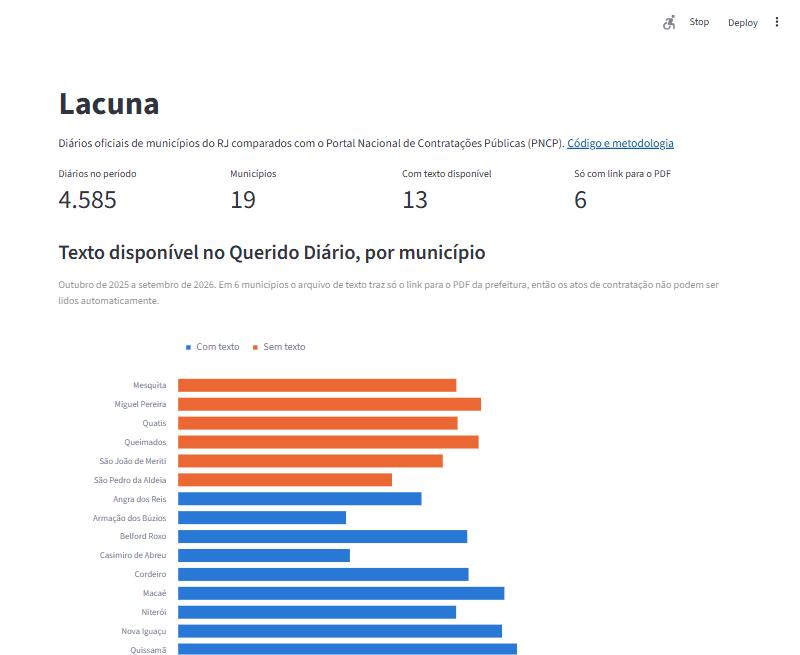
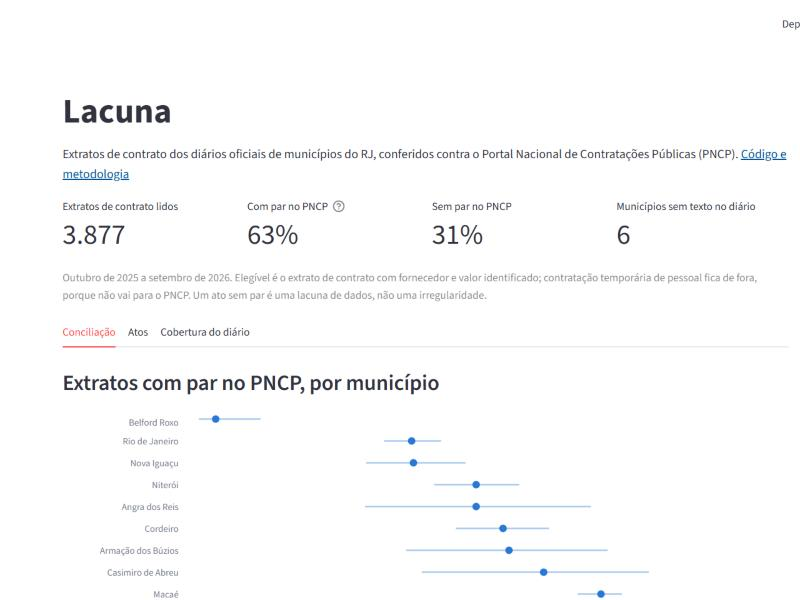
README: resultado final, como funciona e o que deu errado

diff --git a/README.md b/README.md
@@ -3,28 +3,74 @@
 [![ci](https://github.com/juan-barross/lacuna/actions/workflows/ci.yml/badge.svg)](https://github.com/juan-barross/lacuna/actions/workflows/ci.yml)
 [![Abrir o painel](https://static.streamlit.io/badges/streamlit_badge_black_white.svg)](https://lacuna.streamlit.app)
 
-Prefeituras publicam seus contratos no diário oficial e deveriam registrá-los também no [Portal Nacional de Contratações Públicas (PNCP)](https://pncp.gov.br/). O Lacuna lê os diários de municípios do RJ pelo [Querido Diário](https://queridodiario.ok.org.br/), extrai os atos de contratação e confere quais deles aparecem no PNCP.
+**Um em cada três extratos de contrato publicados nos diários oficiais de 13 municípios do RJ não tem registro correspondente no Portal Nacional de Contratações Públicas (PNCP).**
 
-Um ato sem par no PNCP é tratado como **lacuna de dados**, não como irregularidade.
+O Lacuna lê os diários pelo [Querido Diário](https://queridodiario.ok.org.br/), separa os extratos de contrato, extrai empresa, CNPJ, valor e data, e procura cada um entre os contratos que as prefeituras registraram no [PNCP](https://pncp.gov.br/). Um extrato sem par é tratado como **lacuna de dados**, não como irregularidade.
 
 **[Ver o painel](https://lacuna.streamlit.app)**
 
 [![Painel do Lacuna](docs/painel.jpg)](https://lacuna.streamlit.app)
 
-## O que já deu para medir
+## Resultado
 
-Foram 4.585 diários de 19 municípios, de outubro de 2025 a setembro de 2026. Em 6 desses municípios o Querido Diário não tem o texto de nenhum diário do período, só o link para o PDF no site da prefeitura. Nos outros 13, entre 98% e 100% dos diários têm texto.
+Outubro de 2025 a setembro de 2026. 3.877 extratos de contrato lidos, 2.649 elegíveis (contrato com fornecedor e valor identificado) e 8.373 contratos municipais baixados do PNCP.
 
-Antes mesmo de chegar ao PNCP já existe uma lacuna: em um terço dos municípios cobertos, os atos publicados não podem ser lidos por máquina. Detalhes na [ADR 0001](docs/adr/0001-recorte-estado-periodo.md).
+| | Extratos | % |
+|---|---:|---:|
+| Com par no PNCP | 1.676 | 63% |
+| Provável (valor e data batem, nome não confirma) | 141 | 5% |
+| **Sem par no PNCP** | **832** | **31%** |
 
-## Andamento
+Por município, com intervalo de confiança de 95% (Wilson):
 
-- [x] Recorte e ingestão do Querido Diário, com cache e status do texto de cada diário
-- [x] Painel com a cobertura por município
-- [ ] Cliente do PNCP e guia de anotação
-- [ ] Conjunto ouro rotulado à mão e baseline com regex
-- [ ] Extração com LLM, com F1 por campo, custo e latência
-- [ ] Conciliação com o PNCP e taxa por município com intervalo de confiança
+| Município | Elegíveis | Com par | IC 95% |
+|---|---:|---:|---|
+| Quissamã | 122 | 89% | 83% a 94% |
+| São José do Vale do Rio Preto | 446 | 85% | 82% a 88% |
+| Saquarema | 473 | 78% | 74% a 81% |
+| Macaé | 600 | 69% | 65% a 72% |
+| Casimiro de Abreu | 22 | 59% | 39% a 77% |
+| Armação dos Búzios | 30 | 53% | 36% a 70% |
+| Cordeiro | 153 | 52% | 44% a 60% |
+| Angra dos Reis | 23 | 48% | 29% a 67% |
+| Niterói | 186 | 48% | 41% a 55% |
+| Rio de Janeiro | 397 | 37% | 32% a 42% |
+| Nova Iguaçu | 126 | 37% | 29% a 46% |
+| Belford Roxo | 71 | 4% | 1% a 12% |
+
+Belford Roxo publicou 71 extratos elegíveis no diário e registrou só 52 contratos no PNCP no mesmo período.
+
+Outros 6 municípios (Mesquita, Miguel Pereira, Quatis, Queimados, São João de Meriti e São Pedro da Aldeia) não entram na taxa: o Querido Diário não tem o texto de nenhum diário deles, só o link para o PDF no site da prefeitura. É uma lacuna antes mesmo de chegar ao PNCP.
+
+## Como funciona
+
+```text
+Querido Diário ──> diários (texto) ──> extratos de contrato ──> campos (regex ou LLM) ──┐
+                                                                                        ├──> conciliação ──> painel
+PNCP ──> órgãos municipais de cada cidade ──> contratos de cada órgão ──────────────────┘
+```
+
+1. **Ingestão** (`qd.py`, `pncp.py`): download com cache em disco, retentativa e espera quando a API limita o ritmo.
+2. **Segmentação** (`segment.py`): cada extrato começa em "EXTRATO DO/DE CONTRATO" e vai até o próximo "EXTRATO".
+3. **Extração** (`regex_baseline.py`, `llm.py`): regex como baseline; Claude Haiku 5.5 com saída estruturada no mesmo esquema (`schema.py`), com cache, custo por documento e latência.
+4. **Conciliação** (`match.py`): mesmo município, valor a 1% e data a 60 dias; o nome da contratada (ou o CNPJ) decide entre casado e provável. Regras e motivos na [ADR 0005](docs/adr/0005-regras-de-conciliacao.md).
+5. **Avaliação** (`evaluation.py`): F1 por campo contra um conjunto ouro rotulado à mão e precisão do casamento numa amostra conferida à mão.
+
+## O que deu errado no caminho
+
+Cada item virou um teste.
+
+- **A taxa depende da extração.** Erros no corte do nome da contratada derrubavam o casamento: em Cordeiro o nome engolia "CONTRATO N.º 233/2025" da linha seguinte (taxa de 8% para 52% depois da correção); em Quissamã as partes vêm em "Celebrado entre o Município e a empresa X" (6% para 89%); em Macaé o nome vinha grudado em "Macaé, 07 de Outubro de 2025" (56% para 69%).
+- **Valores redondos casavam por coincidência.** R$ 24.000,00 batia com contratos de outras empresas. Com os dois nomes presentes e diferentes, o par agora é descartado.
+- **O CNPJ errado era o do carimbo.** O D.O.Rio repete no meio do texto a assinatura digital da gráfica municipal, com CNPJ. A segmentação tira esse cabeçalho de página.
+- **APIs com armadilhas.** O Querido Diário satura o total em 10.000 resultados e devolve links `s3://` internos desde dez/2025. O PNCP não filtra contratos por município, recusa períodos acima de 365 dias, devolve 204 sem corpo quando não há resultado e bloqueia por ~27 s depois de 30 a 60 pedidos.
+- **Pouca memória.** A máquina tem 4 GB. O Elasticsearch previsto saiu ([ADR 0004](docs/adr/0004-duckdb-no-lugar-do-elasticsearch.md)); a busca usa o BM25 do DuckDB.
+
+## Limitações
+
+- O conjunto ouro (250 trechos, `data/gold/fila.jsonl`) e a conferência dos casamentos (`data/gold/casamentos.csv`) estão preparados, mas ainda não rotulados. Até lá, a qualidade da extração e a precisão do casamento não estão medidas, e a taxa vale como estimativa.
+- Só entram extratos com o cabeçalho padrão. Sumidouro, por exemplo, quase não o usa.
+- Contratação temporária de pessoal (1.216 extratos, quase todos em Saquarema) fica fora, porque não vai para o PNCP.
 
 ## Como rodar
 
@@ -34,23 +80,25 @@ Python 3.12.
 python -m venv .venv
 source .venv/bin/activate        # no Windows: .venv\Scripts\activate
 pip install -e ".[dev,app]"
-```
-
-Painel local, com os dados já incluídos no repositório:
-
-```bash
 streamlit run app/streamlit_app.py
 ```
 
-Baixar os diários de novo (uns 15 minutos, cerca de 900 MB em `data/`):
+O painel usa os dados já incluídos em `app/data/`. Para refazer tudo a partir das APIs (algumas horas, por causa do limite do PNCP):
 
 ```bash
-dxp -v qd-download
-dxp qd-resumo
-dxp cobertura
+dxp qd-download && dxp pncp-download
+dxp atos && dxp cobertura && dxp conciliar
 ```
 
-`qd-download` grava `data/processed/qd_gazettes.parquet`, uma linha por diário. A coluna `text_status` diz se o texto é utilizável (`ok`) ou por que não é (`so_link`, `curto`, `vazio`, `sem_txt`, `erro`). `cobertura` gera o `app/data/cobertura.csv` que o painel lê.
+Avaliação:
+
+```bash
+dxp amostra                      # sorteia os 250 trechos do conjunto ouro
+streamlit run app/anotar.py      # rotula à mão (guia em docs/guia_anotacao.md)
+dxp avaliar --extrator regex     # F1 por campo no dev
+dxp avaliar --extrator llm       # precisa de ANTHROPIC_API_KEY no .env
+dxp precisao                     # depois de preencher data/gold/casamentos.csv
+```
 
 ## Testes
 
@@ -58,24 +106,15 @@ dxp cobertura
 pytest
 ```
 
-Os testes não acessam a internet: usam respostas gravadas da API em `tests/fixtures/`.
-
-## Problemas que apareceram nas APIs
-
-- O campo `total_gazettes` do Querido Diário para em 10.000 e um `offset` acima disso devolve erro 500. O download é feito mês a mês, e uma janela que bate no teto é dividida ao meio.
-- A API responde 403 ao User-Agent padrão do `urllib`.
-- Desde dezembro de 2025, parte dos links de texto vem como `s3://okbr-qd-migration//...`, que não é acessível. O mesmo arquivo está em `data.queridodiario.ok.org.br`, e o cliente faz a troca.
-- O servidor de arquivos às vezes fecha a conexão no meio do download. O cliente tenta de novo e só grava o arquivo quando ele chega inteiro.
+129 testes, sem acesso à internet: respostas gravadas das APIs e um cliente falso do LLM. Um deles roda a CLI inteira de ponta a ponta num diretório temporário.
 
 ## Decisões
 
-- [0001: recorte RJ, out/2025 a set/2026](docs/adr/0001-recorte-estado-periodo.md)
+- [0001: recorte RJ, out/2025 a set/2026, e municípios sem texto](docs/adr/0001-recorte-estado-periodo.md)
 - [0002: LLM por API contra modelo local](docs/adr/0002-escolha-do-llm.md)
-- [0003: índice próprio no Elasticsearch](docs/adr/0003-elasticsearch-alem-da-busca-do-qd.md)
+- [0004: BM25 no DuckDB no lugar do Elasticsearch](docs/adr/0004-duckdb-no-lugar-do-elasticsearch.md)
+- [0005: regras de conciliação](docs/adr/0005-regras-de-conciliacao.md)
 
 ## Fontes
 
-- Querido Diário, Open Knowledge Brasil: `https://api.queridodiario.org.br`
-- PNCP, API de consultas: `https://pncp.gov.br/api/consulta`
-
-Nenhuma das duas APIs declara licença para os dados. O repositório não redistribui o dado bruto; o código baixa direto das fontes e só as contagens agregadas ficam versionadas.
+Querido Diário (Open Knowledge Brasil) e PNCP, API de consultas. Nenhuma das duas declara licença para os dados; o repositório não redistribui o dado bruto, só contagens e os trechos de extratos usados no painel.
